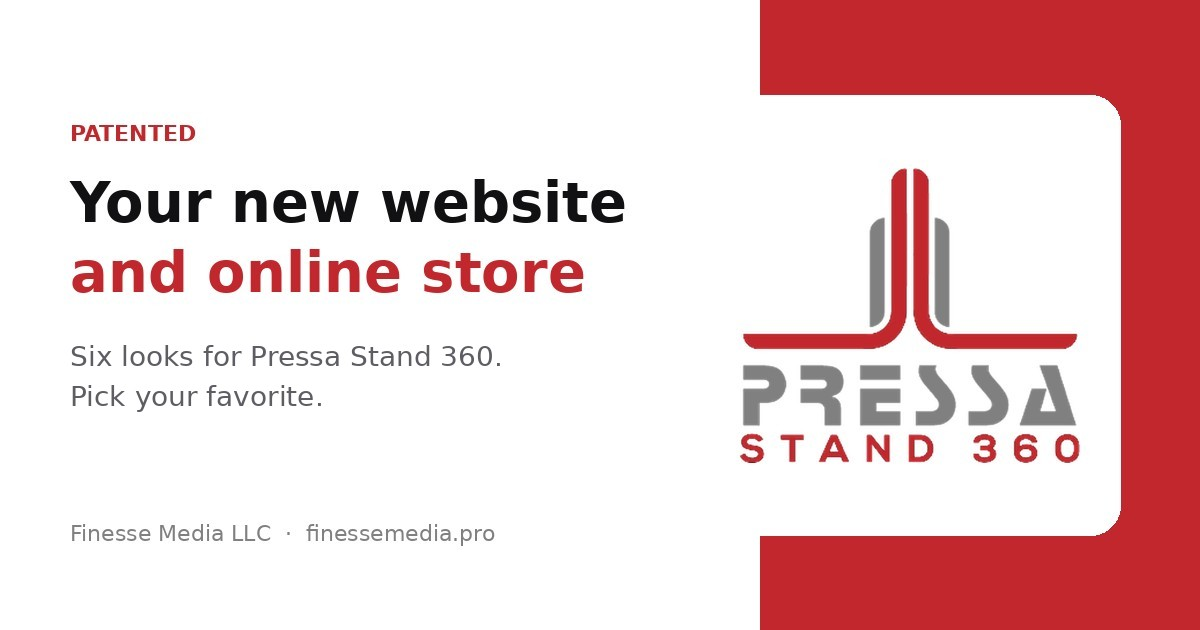
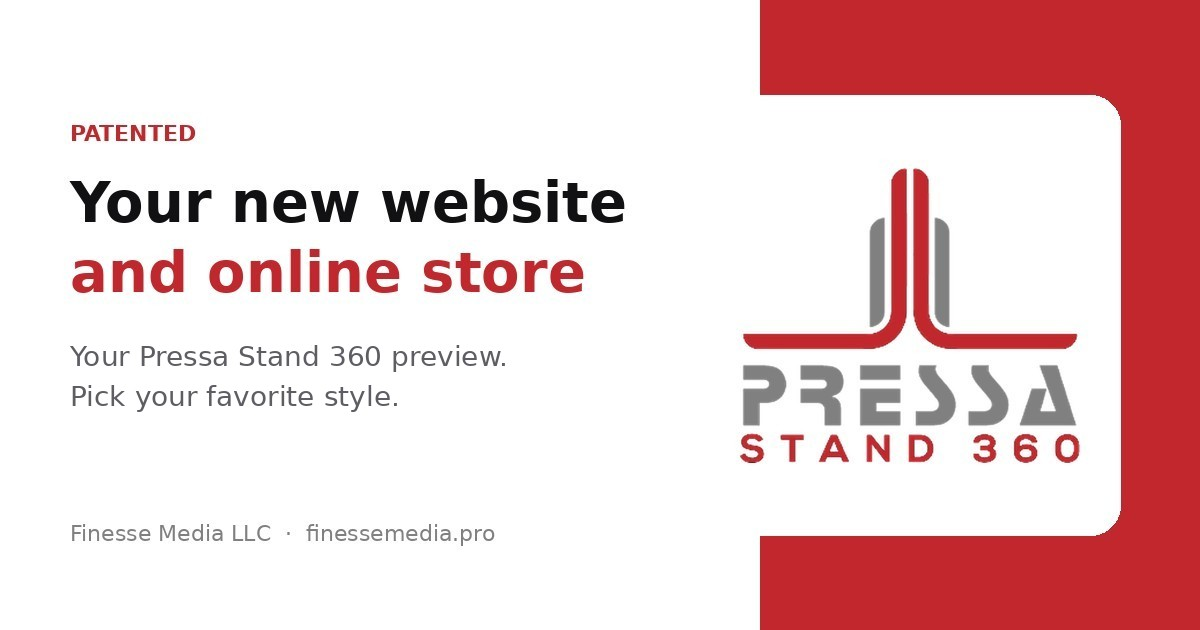
Pressa proposal: keep only Look F (Black & Orange) with its three dark-section options
Claude-Session: https://claude.ai/code/session_01JodS2cFC2arxkPuypY5CDN

Changed region(s): [[0.0617, 0.5429, 0.4317, 0.6635]]

diff --git a/static-site/proposals/pressa/index.html b/static-site/proposals/pressa/index.html
@@ -1,5 +1,5 @@
 <!DOCTYPE html>
-<html lang="en" class="look-a">
+<html lang="en" class="look-f">
 <head>
 <meta charset="utf-8">
 <meta name="viewport" content="width=device-width, initial-scale=1, viewport-fit=cover">
@@ -7,7 +7,7 @@
 <meta name="robots" content="noindex, nofollow">
 <meta name="description" content="Website design proposal for Pressa Stand 360, prepared by Finesse Media LLC.">
 <meta property="og:title" content="Pressa Stand 360 · Website Proposal">
-<meta property="og:description" content="Six looks for your new website and online store. Pick your favorite.">
+<meta property="og:description" content="Your new website and online store. Pick your favorite style.">
 <meta property="og:image" content="https://finessemedia.pro/proposals/pressa/images/share.jpg">
 <meta property="og:image:width" content="1200">
 <meta property="og:image:height" content="630">
@@ -30,15 +30,7 @@
       <span class="pk-title"><span data-l="en">Pick your look</span><span data-l="es">Elige tu estilo</span></span>
       <span class="pk-sub">Proposal by Finesse Media LLC</span>
     </div>
-    <div class="pk-chips" role="tablist">
-      <button class="chip on" data-look="a" role="tab">A · Studio</button>
-      <button class="chip" data-look="b" role="tab">B · Precision</button>
-      <button class="chip" data-look="c" role="tab">C · Editorial</button>
-      <button class="chip" data-look="d" role="tab">D · Steel</button>
-      <button class="chip" data-look="e" role="tab">E · Red Block</button>
-      <button class="chip" data-look="f" role="tab">F · Black &amp; Orange</button>
-    </div>
-    <div class="pk-variants" id="fVariants" hidden>
+    <div class="pk-variants" id="fVariants">
       <span class="pkv-label"><span data-l="en">Dark sections</span><span data-l="es">Secciones oscuras</span></span>
       <button class="vchip on" data-v="1">1 · <span data-l="en">Bookends</span><span data-l="es">Extremos</span></button>
       <button class="vchip" data-v="2">2 · <span data-l="en">Alternating</span><span data-l="es">Alternado</span></button>

diff --git a/static-site/proposals/pressa/js/app.js b/static-site/proposals/pressa/js/app.js
@@ -64,10 +64,9 @@
   var wa = document.getElementById("wantWa"), sms = document.getElementById("wantSms");
   function updateWant() {
     var es = root.lang === "es";
-    var extra = current === "f" ? (es ? ", secciones oscuras opción " + variant + " (" + VNAMES[variant][1] + ")" : ", dark sections option " + variant + " (" + VNAMES[variant][0] + ")") : "";
     var msg = es
-      ? "Hola Angel, soy Hiram. Quiero el estilo " + LOOKS[current] + extra + " para la página de Pressa."
-      : "Hi Angel, it's Hiram. I want Look " + LOOKS[current] + extra + " for the Pressa website.";
+      ? "Hola Angel, soy Hiram. Quiero la opción " + variant + " (" + VNAMES[variant][1] + ") para la página de Pressa."
+      : "Hi Angel, it's Hiram. I want option " + variant + " (" + VNAMES[variant][0] + ") for the Pressa website.";
     var t = encodeURIComponent(msg);
     wa.href = "https://wa.me/" + ANGEL + "?text=" + t;
     var ios = /iPad|iPhone|iPod/.test(navigator.userAgent);
@@ -166,7 +165,7 @@
   // ---------- init ----------
   var savedLook = "a", savedLang = "es";
   try { savedLook = localStorage.getItem("pressa-look2") || "a"; savedLang = localStorage.getItem("pressa-lang") || "es"; } catch (e) {}
-  setLook(LOOKS[savedLook] ? savedLook : "a");
+  setLook("f");
   setLang(savedLang === "en" ? "en" : "es");
 })();
 

diff --git a/static-site/proposals/pressa/css/style.css b/static-site/proposals/pressa/css/style.css
@@ -469,3 +469,7 @@ html.intro-open body{overflow:hidden}
 .vchip.on{background:#e8681c;border-color:#e8681c;color:#141414}
 @media(max-width:760px){.pk-variants{flex-wrap:nowrap;overflow-x:auto;scrollbar-width:none}.pk-variants::-webkit-scrollbar{display:none}.pkv-label{white-space:nowrap}}
 @media(max-width:760px){.pk-variants{order:1}.pk-actions{order:2}}
+
+/* Single look: dark-section options are the only choice */
+.pk-variants{order:0;width:auto;padding-top:0}
+@media(max-width:760px){.pk-variants{width:100%;order:1}.pk-actions{order:2}}
